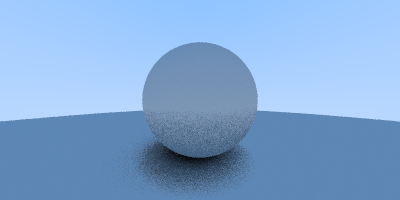
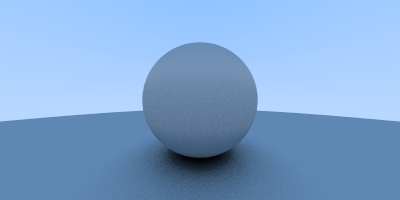
add scatter

Changed region(s): [[0.33, 0.66, 0.66, 1.0], [0.36, 0.48, 0.66, 0.66]]

diff --git a/Assets/Editor/raytracing.cs b/Assets/Editor/raytracing.cs
@@ -341,7 +341,7 @@ namespace SimpleRT
                 //此处假定有50%的光被吸收，剩下的则从入射点开始取随机方向再次发射一条射线
                 //return 0.5f * GetColorForTestDiffusing(new Ray(record.p, target - record.p), hitableList);
 
-                // 即便稳重说的是使用随机的光线 但是即使是漫反射 也还是和物体本身的法线方向相关的  //所以这里还需要考虑到法线
+                // 即便文中说的是使用随机的光线 但是即使是漫反射 也还是和物体本身的法线方向相关的  //所以这里还需要考虑到法线
                 return 0.5f * GetColorForTestDiffusing(new Ray(record.p, record.normal + GetRandomPointInUnitSphereForTestDiffusing() * 0.5f), hitableList);
             }
             float t = 0.5f * ray.normalDirection.y + 1f;
@@ -432,14 +432,25 @@ namespace SimpleRT
             SimpleCamera camera = new SimpleCamera(original + new Vector3(0, 0, 3), lowLeftCorner, horizontal, vertical);
             float recip_width = 1f / width;
             float recip_height = 1f / height;
+            // Debug.LogFormat("Hitable discriminant {0} {1}", recip_width, recip_height);
+
             for (int j = height - 1; j >= 0; j--)
                 for (int i = 0; i < width; i++)
                 {
+                    if ( i % 10 == 0 && j % 10 == 0) {
+                        Debug.LogFormat("r u v {0} {1}    {2} {3}",  i, j, (i + _M.R()) * recip_width, (j + _M.R()) * recip_height);
+
+                    }
+
                     Color color = new Color(0, 0, 0);
                     for (int s = 0; s < SAMPLE / 10; s++)
                     {
                         // 光线的出发点就是摄像机
-                        Ray r = camera.CreateRay((i + _M.R()) * recip_width, (j + _M.R()) * recip_height);
+                        // (i + _M.R()) * recip_width 都是小范围发散光线
+                        Ray r = camera.CreateRay( (i + _M.R()) * recip_width, (j + _M.R()) * recip_height);
+
+
+
                         color += GetColorForTestMetal(r, hitableList, 0);
                     }
                     color *= SAMPLE_WEIGHT * 10f;
@@ -866,6 +877,7 @@ namespace SimpleRT
             lowLeftCorner = lookFrom + w * focus_dist - halfWidth * u * focus_dist - halfHeight * v * focus_dist;
             horizontal = 2 * halfWidth * focus_dist * u;
             vertical = 2 * halfHeight * focus_dist * v;
+
         }
         public Ray CreateRay(float x, float y)
         {
@@ -876,6 +888,7 @@ namespace SimpleRT
             {
                 Vector3 rd = radius * _M.GetRandomPointInUnitDisk();
                 Vector3 offset = rd.x * u + rd.y * v;
+
                 return new Ray(position + offset, lowLeftCorner + x * horizontal + y * vertical - position - offset);
             }
         }
@@ -898,6 +911,8 @@ namespace SimpleRT
         public static Vector3 GetRandomPointInUnitSphere()
         {
             Vector3 p = 2f * new Vector3(_M.R(), _M.R(), _M.R()) - Vector3.one;
+            // 变化区间在 [-1, 1]
+
             p = p.normalized * _M.R();
             return p;
         }

diff --git a/readme.md b/readme.md
@@ -57,13 +57,21 @@ Math.Tan(xxx) 这里xxx 都是弧度, 要计算角度的话 需要 Math.Tan(π/1
 
 例如当你在 GetColorForTestSphere 把球坐标改为 (1, 0, -1) 时, 得到结果是
 
-[!image](https://raw.githubusercontent.com/lumixraku/RayTracingWithU3DEditor/master/畸变.png)
+![image](https://raw.githubusercontent.com/lumixraku/RayTracingWithU3DEditor/master/畸变.png)
 
 不过要是稍微把球放远一点(1, 0, -2), 这个情况就会好很多.
 
-[!image](https://raw.githubusercontent.com/lumixraku/RayTracingWithU3DEditor/master/畸变1.png)
+![image](https://raw.githubusercontent.com/lumixraku/RayTracingWithU3DEditor/master/畸变1.png)
 
 当然, 也可以移动相机的位置, 部分场景中我摄像机放在(0,0,3)的位置
+
+
+## 关于HitRecord
+
+- t 是碰撞时光线的长度
+- p 是光线和球碰撞的点, 也就是交汇点
+- normal 是交汇点的法线(通过 p - center 得到)
+- material 不同的材料会对碰撞的光线有不同的行为
 
 # 抗锯齿
 
@@ -76,13 +84,45 @@ Math.Tan(xxx) 这里xxx 都是弧度, 要计算角度的话 需要 Math.Tan(π/1
 
 使用了随机算法来采样, 详情 GetColorForTestAntialiasing.
 
-额外多发出了很多条光线, 这些光线在原有的光线方向上略微有些发散, 最后取得到的颜色的均值.
+针对每个像素点, 光源(也就是摄像机所在位置)都再额外多发出100条光线去采样计算, 这些光线在原有的光线方向上略微有些发散, 最后取得到的颜色的均值.
+
+
+# 散射
+
+本篇仅说明 diffuse
+
+详情 CreateColorForTestDiffusing
+
+GetColorForTestDiffusing 会递归调用
+
+同样针对每个像素点, 都再发射一些光线计算.
+
+record 是光线和球碰撞交汇的记录. 碰撞点都再次发出光线(衰减50%), 这些光线方向随机, 再次参与光线碰撞计算.
+
+PS (漫反射场景有两个球, 底部有一个很大的球, 存在光线的弹射)
+
+如果去掉底部那个球, 呈现的结果会是一个很光滑的蓝色球.
+
+![image](https://raw.githubusercontent.com/lumixraku/RayTracingWithU3DEditor/master/漫反射.png)
+![image](https://raw.githubusercontent.com/lumixraku/RayTracingWithU3DEditor/master/漫反射2.png)
+
+
+## 镜面
+详情 CreateColorForTestMetal
+
+GetColorForTestMetal 中对每一个光线打到的碰撞点有scatter 函数
+
+这个HitRecord 会调用不同材质的散射函数.
+
+- 对于漫反射, 得到的光的方向时随机的, 向四面八方
+- 对于金属类型, 根据设置的fuzz 加上一定程度的漫反射(也就是常说的 glossy 的概念),
+  剩下的最主要的还是反射(需要知道入射光线和法线才好做反射),
+
+- 电解质(玻璃) 需要反射和折射
 
 # 测试相机FOV和位置角度
 
-
-
-[!image](https://raw.githubusercontent.com/lumixraku/RayTracingWithU3DEditor/master/FOV.png)
+![image](https://raw.githubusercontent.com/lumixraku/RayTracingWithU3DEditor/master/FOV.png)
 
 
 详情 GetColorForTestCamera  L552
